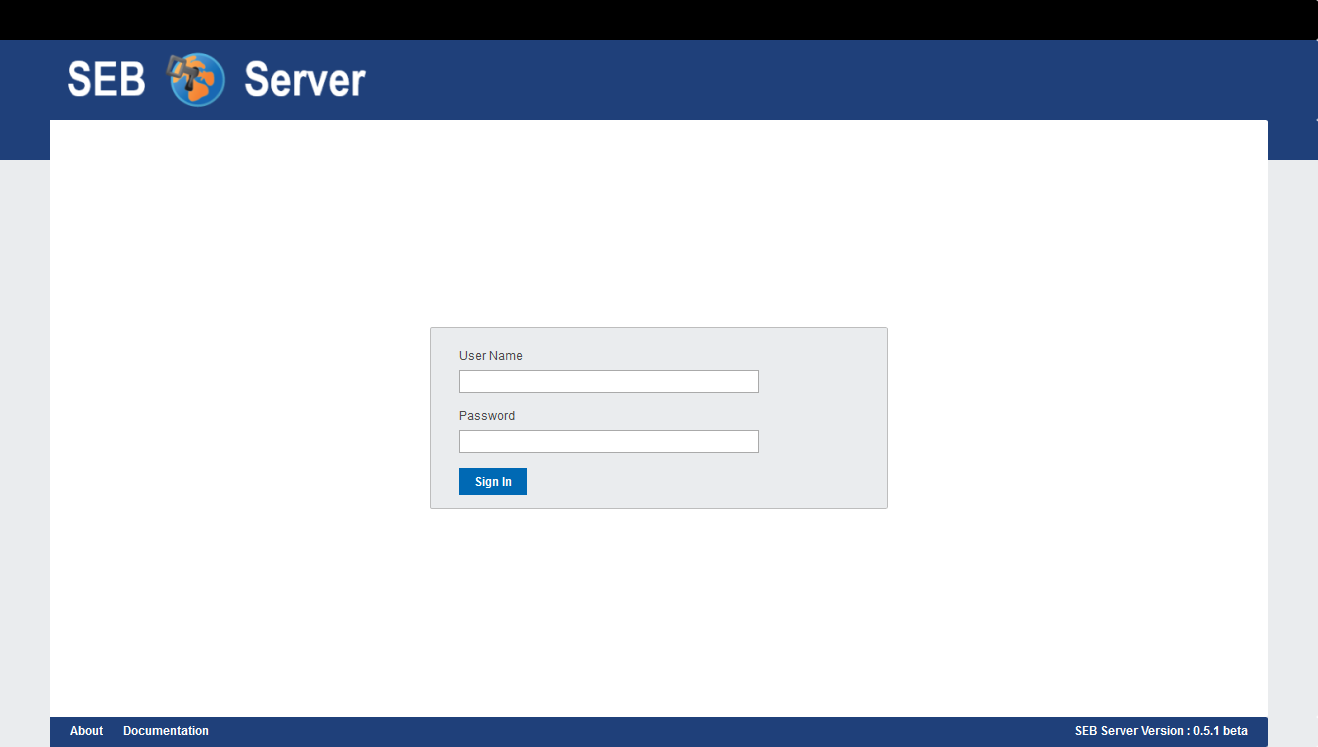
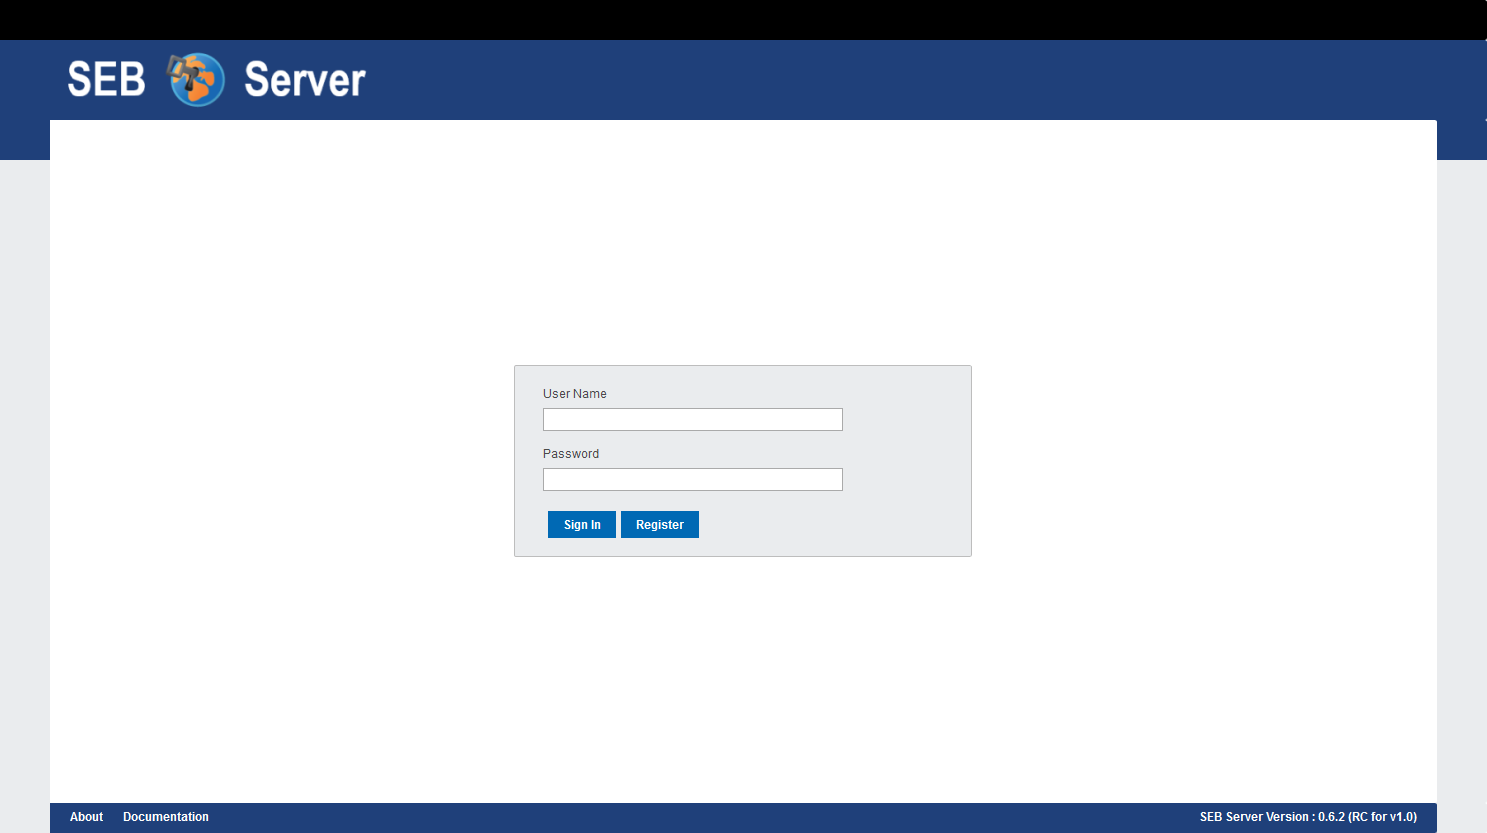
more docu

diff --git a/docs/overview.rst b/docs/overview.rst
@@ -56,4 +56,23 @@ What one probably see first when applying to a SEB server application is the log
     :align: center
     :target: https://raw.githubusercontent.com/SafeExamBrowser/seb-server/master/docs/images/user/basic/login.png
 
+If you are already registered you can use your username and password to log in. Or use the "Register" button to go the the register page to create a new user-account. The newly created user account will only have the Exam Supporter role assigned. If one need another role or more privileges, this must be given and granted by an institutional administrator of the specified institution.
 
+.. image:: images/user/basic/register.png
+    :align: center
+    :target: https://raw.githubusercontent.com/SafeExamBrowser/seb-server/master/docs/images/user/basic/register.png
+
+Fill in the register form and create a new account. After successfully creation, the application redirects to the login page for login.
+
+
+Graphical User Interface
+------------------------
+
+Overview
+^^^^^^^^
+
+Lists
+^^^^^^
+
+Forms
+^^^^^^
